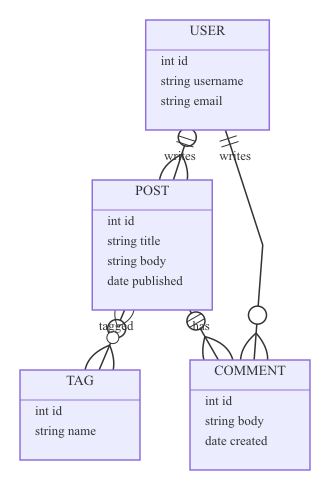
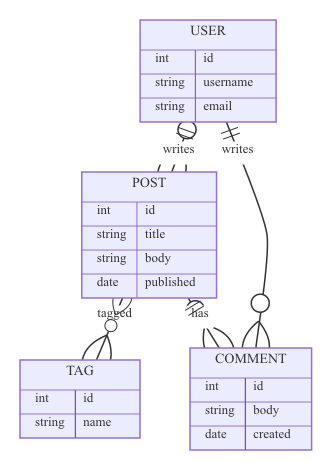
er: two-column attribute grid, smooth edges, chip-style labels (#76)
* er: two-column attribute grid, smooth edges, chip-style labels

Three regressions vs mermaid-cli on examples/er/{simple,blog}.mmd:

1. Attributes rendered as a flat list of `type name` text rows. mmdc
   draws each attribute as a two-column grid (type | name) with a
   horizontal divider between rows and a vertical divider between
   columns. Now matches: attrColumnWidths sizes the columns,
   renderEntities draws both dividers and the per-cell text.
2. 3+-waypoint edges were sharp polylines. Switched to
   svgutil.CatmullRomPath (the helper extracted in PR #75), so ER edges
   share the same smooth curve flowchart and class already use.
3. Edge labels had no chip backdrop, so "contains"/"includes" visibly
   merged with cardinality markers. Added the same theme-background
   chip introduced for flowchart in #73 and class in #74.

Drops the now-unused polylineD and the strings import. Both example
SVGs and PNGs regenerated.

* er: layer chip backdrop under start marker, not over it

Reviewer flag — the chip rect was emitted after startMarkerGroup, so a
label sitting close to the source endpoint would erase the cardinality
glyph. Reordered to line/path → chip → start marker → text. The chip
still masks crossing edges behind the label, but the marker now paints
on top of the chip.

* er + svgutil: extract LabelChip helper, consolidate divider loop

Simplifier follow-up:
- New svgutil.LabelChip centralizes the chip-rect math now used by
[…]

Changed region(s): [[0.0606, 0.0298, 0.9394, 0.983]]

diff --git a/pkg/renderer/er/renderer.go b/pkg/renderer/er/renderer.go
@@ -5,7 +5,6 @@ import (
 	"fmt"
 	"math"
 	"sort"
-	"strings"
 
 	"github.com/julianshen/mmgo/pkg/diagram"
 	"github.com/julianshen/mmgo/pkg/layout"
@@ -20,8 +19,11 @@ const (
 	entityPadX      = 15.0
 	entityPadY      = 10.0
 	headerH         = 30.0
-	attrRowH        = 20.0
+	attrRowH        = 24.0
 	minEntityW      = 120.0
+	// attrCellGap separates the type column from the name column inside
+	// each attribute row. Matches the visual spacing mmdc uses.
+	attrCellGap = 16.0
 )
 
 type Options struct {
@@ -68,8 +70,8 @@ func Render(d *diagram.ERDiagram, opts *Options) ([]byte, error) {
 	if markers := buildERMarkers(d); len(markers) > 0 {
 		children = append(children, &defs{Markers: markers})
 	}
-	children = append(children, renderEdges(d, l, pad, fontSize, th)...)
-	children = append(children, renderEntities(d, l, pad, fontSize, th)...)
+	children = append(children, renderEdges(d, l, pad, fontSize, th, ruler)...)
+	children = append(children, renderEntities(d, l, pad, fontSize, th, ruler)...)
 
 	svg := svgDoc{
 		XMLNS:    "http://www.w3.org/2000/svg",
@@ -90,15 +92,6 @@ func sanitize(v float64) float64 {
 	return v
 }
 
-func polylineD(pts []layout.Point) string {
-	var sb strings.Builder
-	fmt.Fprintf(&sb, "M%.2f,%.2f", pts[0].X, pts[0].Y)
-	for _, p := range pts[1:] {
-		fmt.Fprintf(&sb, " L%.2f,%.2f", p.X, p.Y)
-	}
-	return sb.String()
-}
-
 // See erStartGeoms in markers.go for why start markers are inlined
 // rather than referenced via SVG marker-start.
 func startMarkerGroup(c diagram.ERCardinality, start, next layout.Point) *group {
@@ -114,30 +107,46 @@ func entitySize(e diagram.EREntity, ruler *textmeasure.Ruler, fontSize float64) 
 	w = tw + 2*entityPadX
 	h = headerH
 	if len(e.Attributes) > 0 {
-		h += entityPadY + float64(len(e.Attributes))*attrRowH
-		for _, a := range e.Attributes {
-			aw, _ := ruler.Measure(attrText(a), fontSize-1)
-			if aw+2*entityPadX > w {
-				w = aw + 2*entityPadX
-			}
+		typeColW, nameColW := attrColumnWidths(e.Attributes, ruler, fontSize-1)
+		rowW := 2*entityPadX + typeColW + attrCellGap + nameColW
+		if rowW > w {
+			w = rowW
 		}
+		h += float64(len(e.Attributes)) * attrRowH
 	}
 	if w < minEntityW {
 		w = minEntityW
 	}
-	h += entityPadY
 	return w, h
 }
 
-func attrText(a diagram.ERAttribute) string {
-	s := a.Type + " " + a.Name
-	if a.Key != diagram.ERKeyNone {
-		s += " " + a.Key.String()
+// attrColumnWidths returns the widest type-cell and the widest name-cell
+// across all attributes. The Key suffix (PK/FK/UK) is appended to the
+// name cell, so keys influence nameColW only.
+func attrColumnWidths(attrs []diagram.ERAttribute, ruler *textmeasure.Ruler, fontSize float64) (typeColW, nameColW float64) {
+	for _, a := range attrs {
+		tw, _ := ruler.Measure(a.Type, fontSize)
+		if tw > typeColW {
+			typeColW = tw
+		}
+		nw, _ := ruler.Measure(nameCellText(a), fontSize)
+		if nw > nameColW {
+			nameColW = nw
+		}
 	}
-	return s
+	return typeColW, nameColW
 }
 
-func renderEntities(d *diagram.ERDiagram, l *layout.Result, pad, fontSize float64, th Theme) []any {
+// nameCellText is what shows in the name column. The key marker
+// (PK/FK/UK) trails the name, mirroring mmdc's row layout.
+func nameCellText(a diagram.ERAttribute) string {
+	if a.Key != diagram.ERKeyNone {
+		return a.Name + " " + a.Key.String()
+	}
+	return a.Name
+}
+
+func renderEntities(d *diagram.ERDiagram, l *layout.Result, pad, fontSize float64, th Theme, ruler *textmeasure.Ruler) []any {
 	var elems []any
 	for _, e := range d.Entities {
 		nl, ok := l.Nodes[e.Name]
@@ -163,28 +172,56 @@ func renderEntities(d *diagram.ERDiagram, l *layout.Result, pad, fontSize float6
 			Content: e.Name,
 		})
 
-		if len(e.Attributes) > 0 {
-			sepY := y + headerH
+		if len(e.Attributes) == 0 {
+			continue
+		}
+
+		dividerStyle := fmt.Sprintf("stroke:%s;stroke-width:1", th.EntityStroke)
+		typeColW, _ := attrColumnWidths(e.Attributes, ruler, fontSize-1)
+		colDividerX := x + entityPadX + typeColW + attrCellGap/2
+		nameCellX := x + entityPadX + typeColW + attrCellGap
+		attrTextStyle := fmt.Sprintf("fill:%s;font-size:%.0fpx", th.EntityText, fontSize-1)
+		headerSepY := y + headerH
+
+		// Horizontal dividers above each row. The i=0 line is also the
+		// header/attribute separator; the entity's outer rect closes
+		// off the bottom, so no trailing bottom line is needed.
+		for i := range e.Attributes {
+			rowTop := headerSepY + float64(i)*attrRowH
 			elems = append(elems, &line{
-				X1: svgFloat(x), Y1: svgFloat(sepY),
-				X2: svgFloat(x + w), Y2: svgFloat(sepY),
-				Style: fmt.Sprintf("stroke:%s;stroke-width:1", th.EntityStroke),
+				X1: svgFloat(x), Y1: svgFloat(rowTop),
+				X2: svgFloat(x + w), Y2: svgFloat(rowTop),
+				Style: dividerStyle,
 			})
-			for i, a := range e.Attributes {
-				ay := sepY + entityPadY/2 + float64(i)*attrRowH + attrRowH/2
-				elems = append(elems, &text{
-					X: svgFloat(x + entityPadX), Y: svgFloat(ay),
-					Anchor: "start", Dominant: "central",
-					Style:   fmt.Sprintf("fill:%s;font-size:%.0fpx", th.EntityText, fontSize-1),
-					Content: attrText(a),
-				})
-			}
+		}
+		// Vertical divider between the type and name columns.
+		attrSectionH := float64(len(e.Attributes)) * attrRowH
+		elems = append(elems, &line{
+			X1: svgFloat(colDividerX), Y1: svgFloat(headerSepY),
+			X2: svgFloat(colDividerX), Y2: svgFloat(headerSepY + attrSectionH),
+			Style: dividerStyle,
+		})
+
+		for i, a := range e.Attributes {
+			rowMid := headerSepY + float64(i)*attrRowH + attrRowH/2
+			elems = append(elems, &text{
+				X: svgFloat(x + entityPadX), Y: svgFloat(rowMid),
+				Anchor: "start", Dominant: "central",
+				Style:   attrTextStyle,
+				Content: a.Type,
+			})
+			elems = append(elems, &text{
+				X: svgFloat(nameCellX), Y: svgFloat(rowMid),
+				Anchor: "start", Dominant: "central",
+				Style:   attrTextStyle,
+				Content: nameCellText(a),
+			})
 		}
 	}
 	return elems
 }
 
-func renderEdges(d *diagram.ERDiagram, l *layout.Result, pad, fontSize float64, th Theme) []any {
+func renderEdges(d *diagram.ERDiagram, l *layout.Result, pad, fontSize float64, th Theme, ruler *textmeasure.Ruler) []any {
 	edgeKeys := make([]graph.EdgeID, 0, len(l.Edges))
 	for eid := range l.Edges {
 		edgeKeys = append(edgeKeys, eid)
@@ -246,22 +283,32 @@ func renderEdges(d *diagram.ERDiagram, l *layout.Result, pad, fontSize float64, 
 			})
 		} else {
 			elems = append(elems, &path{
-				D:         polylineD(pts),
+				D:         svgutil.CatmullRomPath(pts, svgutil.CatmullRomTension),
 				Style:     style,
 				MarkerEnd: endRef,
 			})
 		}
+		// Layer order: line/path → chip backdrop → start marker → label.
+		// Chip sits above the line so the label background masks crossing
+		// edges, but the start glyph paints on top of the chip — a label
+		// sitting close to the source endpoint must not erase the
+		// cardinality marker.
+		var lx, ly, labelFont float64
+		if rel.Label != "" {
+			lx = el.LabelPos.X + pad
+			ly = el.LabelPos.Y + pad
+			labelFont = fontSize - 1
+			labelW, labelH := ruler.Measure(rel.Label, labelFont)
+			elems = append(elems, svgutil.LabelChip(lx, ly, labelW, labelH, 4, th.Background, 3))
+		}
 		if g := startMarkerGroup(rel.FromCard, pts[0], srcDir); g != nil {
 			elems = append(elems, g)
 		}
-
 		if rel.Label != "" {
-			lx := el.LabelPos.X + pad
-			ly := el.LabelPos.Y + pad
 			elems = append(elems, &text{
 				X: svgFloat(lx), Y: svgFloat(ly),
 				Anchor: "middle", Dominant: "central",
-				Style:   fmt.Sprintf("fill:%s;font-size:%.0fpx", th.EdgeText, fontSize-1),
+				Style:   fmt.Sprintf("fill:%s;font-size:%.0fpx", th.EdgeText, labelFont),
 				Content: rel.Label,
 			})
 		}

diff --git a/pkg/renderer/er/renderer_test.go b/pkg/renderer/er/renderer_test.go
@@ -45,10 +45,42 @@ func TestRenderEntityWithAttributes(t *testing.T) {
 	if !strings.Contains(raw, ">CUSTOMER<") {
 		t.Error("entity name missing")
 	}
-	if !strings.Contains(raw, "int id PK") {
-		t.Error("attribute with key missing")
+	// Type and name now live in separate <text> cells; the key marker
+	// trails the name in the same cell. Assert each piece independently.
+	for _, want := range []string{">int<", ">id PK<", ">string<", ">name<"} {
+		if !strings.Contains(raw, want) {
+			t.Errorf("missing %q in output", want)
+		}
 	}
 	assertValidSVG(t, out)
+}
+
+// Two-column attribute layout invariants: a vertical column divider
+// between the type and name cells, plus a horizontal divider between
+// each pair of attribute rows (in addition to the header divider).
+func TestRenderAttributeGrid(t *testing.T) {
+	d := &diagram.ERDiagram{
+		Entities: []diagram.EREntity{{
+			Name: "T",
+			Attributes: []diagram.ERAttribute{
+				{Type: "int", Name: "a"},
+				{Type: "string", Name: "b"},
+				{Type: "date", Name: "c"},
+			},
+		}},
+	}
+	out, err := Render(d, nil)
+	if err != nil {
+		t.Fatalf("Render: %v", err)
+	}
+	raw := string(out)
+	// 3 attributes ⇒ header divider + 2 inter-row dividers + 1 column
+	// divider = at least 4 stroke-bearing <line> elements with the
+	// theme stroke color in the entity section.
+	const wantStrokeStyle = `stroke:#9370DB;stroke-width:1`
+	if got := strings.Count(raw, wantStrokeStyle); got < 4 {
+		t.Errorf("expected ≥4 divider lines with %q, got %d", wantStrokeStyle, got)
+	}
 }
 
 func TestRenderRelationship(t *testing.T) {
@@ -68,6 +100,11 @@ func TestRenderRelationship(t *testing.T) {
 	raw := string(out)
 	if !strings.Contains(raw, ">has<") {
 		t.Error("relationship label missing")
+	}
+	// Chip backdrop behind the label, mirroring flowchart/class.
+	bg := DefaultTheme().Background
+	if !strings.Contains(raw, "fill:"+bg+";stroke:none") {
+		t.Errorf("expected edge-label chip backdrop with fill:%s", bg)
 	}
 	assertValidSVG(t, out)
 }

diff --git a/pkg/renderer/svgutil/svgutil.go b/pkg/renderer/svgutil/svgutil.go
@@ -45,6 +45,28 @@ func CatmullRomPath(pts []layout.Point, tension float64) string {
 	return sb.String()
 }
 
+// LabelChip returns a centered rounded-rect "chip" sized to wrap a
+// label of (textW, textH) with the given padding on every side.
+// The chip's center sits at (cx, cy) so callers can place it directly
+// behind a centered <text> element. fill is applied as the rect's fill
+// style with stroke disabled; cornerR controls the rx/ry rounding (use
+// 0 for square corners).
+//
+// Used by class/ER/state edge labels. The flowchart renderer keeps its
+// own rect construction because its local Rect type carries an extra
+// Class attribute exercised by type assertions in tests.
+func LabelChip(cx, cy, textW, textH, padding float64, fill string, cornerR float64) *Rect {
+	return &Rect{
+		X:      Float(cx - textW/2 - padding),
+		Y:      Float(cy - textH/2 - padding),
+		Width:  Float(textW + 2*padding),
+		Height: Float(textH + 2*padding),
+		RX:     Float(cornerR),
+		RY:     Float(cornerR),
+		Style:  fmt.Sprintf("fill:%s;stroke:none", fill),
+	}
+}
+
 // ClipToRectEdge returns the point on the axis-aligned rectangle
 // boundary (center (cx, cy), size (w, h)) where the ray toward
 // (ox, oy) exits. If (ox, oy) already lies inside the rect the

diff --git a/pkg/renderer/svgutil/svgutil_test.go b/pkg/renderer/svgutil/svgutil_test.go
@@ -127,6 +127,28 @@ func TestCatmullRomPath(t *testing.T) {
 	}
 }
 
+func TestLabelChip(t *testing.T) {
+	chip := LabelChip(50, 30, 20, 10, 4, "#fff", 3)
+	if chip.X != 36 || chip.Y != 21 {
+		t.Errorf("origin = (%v,%v), want (36,21)", chip.X, chip.Y)
+	}
+	if chip.Width != 28 || chip.Height != 18 {
+		t.Errorf("size = (%v,%v), want (28,18)", chip.Width, chip.Height)
+	}
+	if chip.RX != 3 || chip.RY != 3 {
+		t.Errorf("corners = (%v,%v), want (3,3)", chip.RX, chip.RY)
+	}
+	if !strings.Contains(chip.Style, "fill:#fff") || !strings.Contains(chip.Style, "stroke:none") {
+		t.Errorf("style = %q, want fill:#fff and stroke:none", chip.Style)
+	}
+
+	// Square chip (cornerR=0) leaves rx/ry off via omitempty.
+	square := LabelChip(0, 0, 10, 10, 2, "#000", 0)
+	if square.RX != 0 || square.RY != 0 {
+		t.Errorf("square corners = (%v,%v), want (0,0)", square.RX, square.RY)
+	}
+}
+
 func TestMarshalSVG(t *testing.T) {
 	doc := Doc{XMLNS: "http://www.w3.org/2000/svg", ViewBox: "0 0 100 100"}
 	out, err := MarshalSVG(doc)
